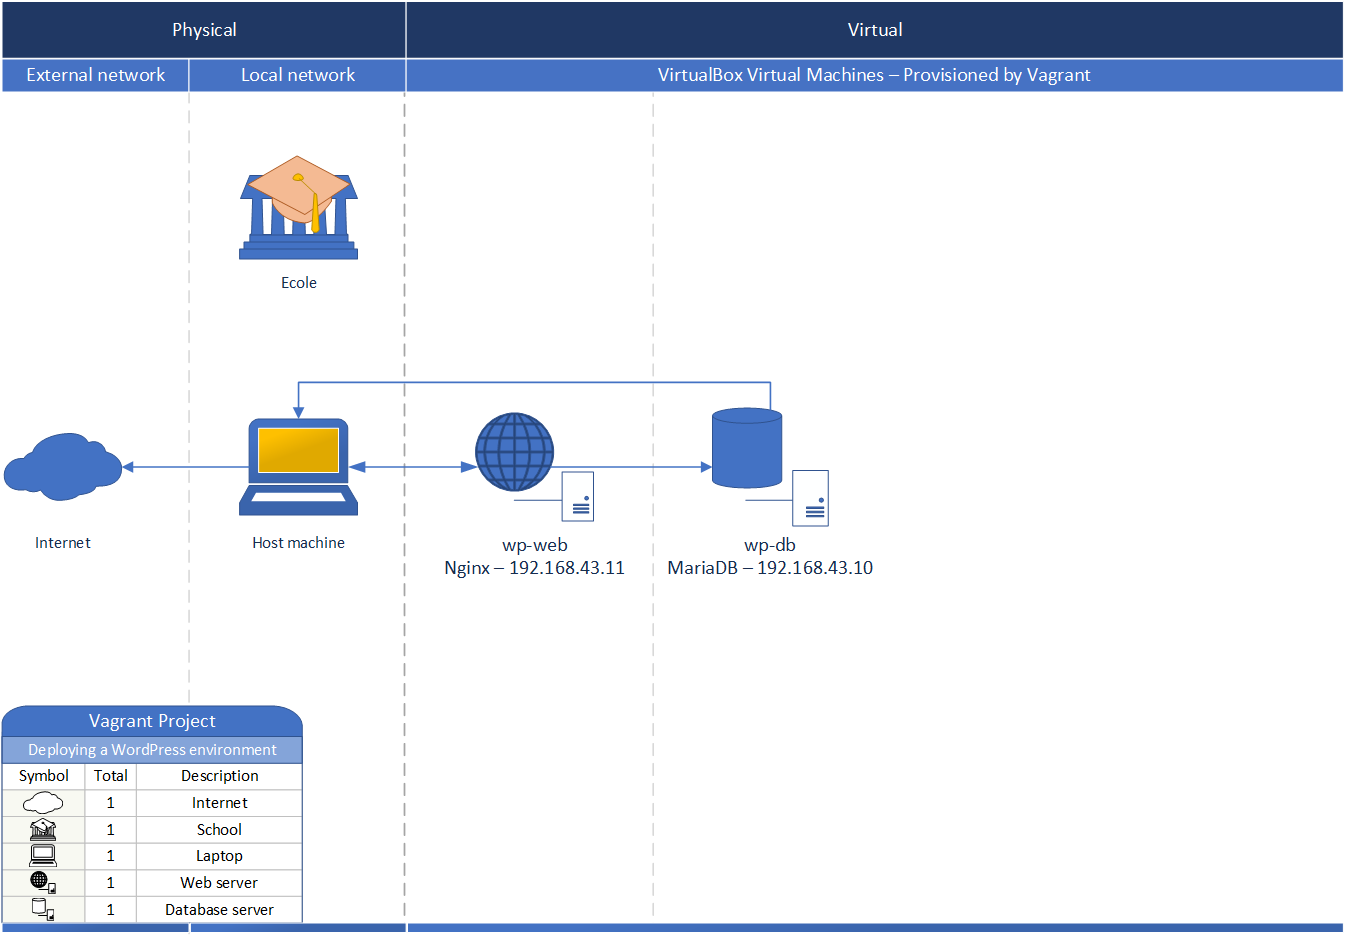
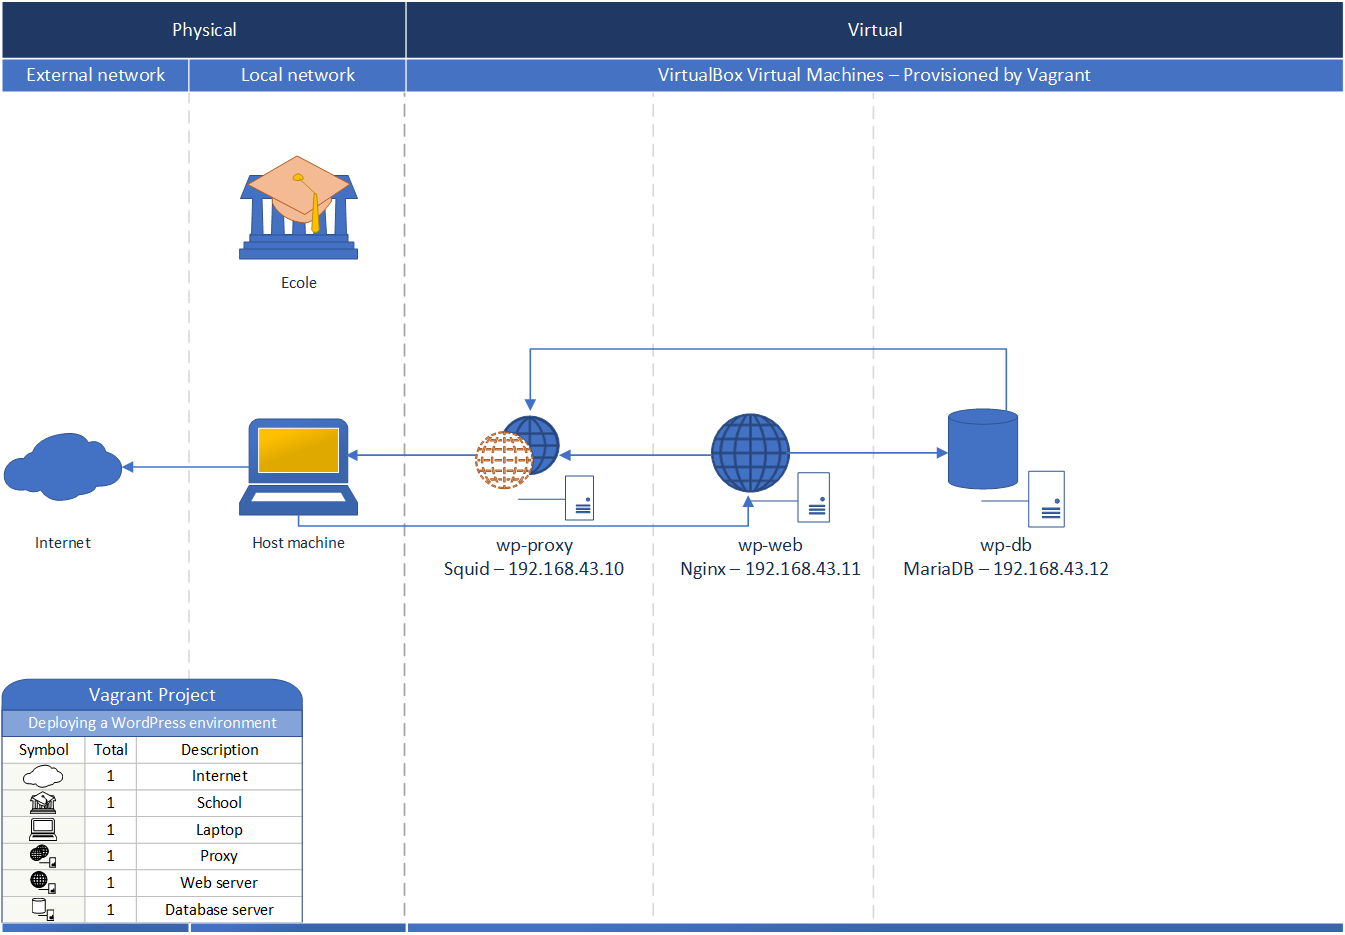
Initial commit exo 2

diff --git a/README.md b/README.md
@@ -6,8 +6,9 @@ This project can be used to deploy a complete Wordpress install in less than hal
 
 |  Qty  | Scalable |           Type            | Package | Hostname |      IP       |  CPU  |  RAM  |
 | :---: | :------: | :-----------------------: | :-----: | :------: | :-----------: | :---: | :---: |
-|   1   |    ❌     | Database (WordPress data) | mariadb |  wp-db   | 192.168.43.12 |   2   |  2GB  |
-|   1   |    ❌     |     Nginx web servers     |  nginx  |  wp-web  | 192.168.43.11 |   2   |  2GB  |
+|   1   |    ❌     |           Proxy           |  squid  | wp-proxy | 192.168.43.10 |   2   |  2GB  |
+|   1   |    ❌     | Database (WordPress data) | mariadb |  wp-db   | 192.168.43.12 |   1   | 1.5GB |
+|   1   |    ✔     |     Nginx web servers     |  nginx  |  wp-web  | 192.168.43.11 |   1   | 1.5GB |
 
 > - All the machines access have been secured with iptables and iptables-persistent to make rules permanent even after rebooting the machine.
 
@@ -15,7 +16,7 @@ This project can be used to deploy a complete Wordpress install in less than hal
 
 > [VirtualBox](https://www.virtualbox.org/wiki/Downloads) is required to deploy this installation, as well as [Vagrant](https://www.vagrantup.com/downloads.html). The `vagrant-dotenv` plugin is used to load the passwords without displaying them in the `Vagrantfile` or in the git repo. The plugin [vagrant-env](https://github.com/gosuri/vagrant-env) is installed with `vagrant plugin install vagrant-env` or automatically during the first deployment.
 
-Before executing any command, a `.env` file must be placed along with the `Vagrantfile` and filled with the three passwords used in the project in the following way :
+Before executing any command, a `.env` file must be placed along with the `Vagrantfile` and filled with the four passwords used in the project in the following way :
 
 ```bash
 # A template for this .env file is placed at the root of this project. You can copy it under the .env name and modify it to your needs.
@@ -26,19 +27,19 @@ WP_ADMIN_PASSWORD="Wordpress admin user password"
 
 Once the environment variables are ready, the project can be deployed easily with one command : `vagrant up` from the project folder.
 
-However, with the default values, some configurations of machines may fail due to network changes or computer resources. With my cellular network share, the network `192.168.43.0/24` is used and I took the 10 to 11 IP range. All of these settings are customizable, as described in the following section
+However, with the default values, some configurations of machines may fail due to network changes or computer resources. With my cellular network share, the network `192.168.43.0/24` is used and I took the 10 to 12 IP range. Moreover, deploying these 3 machines can only run in a computer with at least 16 GB of RAM. An i5 CPU is also recommended. All of these settings are customizable, as described in the following section
 
 ## Common parameters and configuration
 
 Some scripts in this projects are applied to all the machines, configuring some basics things in each system. Most of these scripts use an hash of variables declared in the beginning of the **`Vagrantfile`**. This hash, named `vm_params`, contains all the informations of the project environment. It allows to :
 
-- Define each hostname and IP address of the machines with *`xxxx_hostname`* and *`xxxx_ip`*. The IP address corresponds to the bridged interface and must be unique.
+- Define each hostname and IP address of the machines with *`xxxx_hostname`* and *`xxxx_ip`*. The IP address corresponds to the bridged interface and is unique for the proxy, database, and web server.
 - Define the `netmask` for all machines and defaulting to `255.255.255.0` which is high enough for this project.
 - Define which interface is bridged with `bridgedif`. This is the name of the interface as displayed as in the result of the `VBoxManage list bridgedifs` command, chosing the right interface with Internet access.
 - Define the name of the guest bridged interface with `bridgeif_guest_name`. In all the guests, the bridged interface is the second NIC and is named `eth1` by default.
 - Define the `domain_name` which is given to the vhost configuration and also should match the certificate name to prevent warnings in the browser when visiting the website.
 - Define the root of the certificates files. By default, the certificate files are placed in a `cert` directory right next to the `Vagrantfile` and the `cert_root` variable points towards them. Note that for simplicity, they are kept on a shared folder between the guests and the host machine. They are not pushed to any folder in the virtual machines.
-- Define the `web_root` to where the website files are stored. It is the root folder for all the vhosts (in web servers), defaulting to `/var/www/html`. ⚠ Contents of the folder will be removed during deployment. Be cautious not to place the folder anywhere critical for the system.
+- Define the `web_root` to store the website files. It is the root folder for the vhost (in web server), defaulting to `/var/www/html`. ⚠ Contents of the folder will be removed during deployment. Be cautious not to place the folder anywhere critical for the system.
 - Define the different database or WordPress variables. Go to the Database and WordPress sections to see more details on that part.
 
 All those variables are transmitted as environment variables to the provisioning scripts when necessary (a warning header is included in each script where they are used). This allow to modify in one place all the parameters without having to replace each occurence in the files of the project.
@@ -52,20 +53,22 @@ All these parameters are found at the begining of the `Vagrantfile` or in the `.
 |        netmask         | String  |          255.255.255.0           |    Netmask used for all machines     |                    /24 or less network required                    |
 |        bridgeif        | String  | Intel(R) Wireless-AC 9560 160MHz |      Name of the host interface      |                  see `VBoxManage list bridgedifs`                  |
 |  bridgeif_guest_name   | String  |               eth1               |     Name of the guest interface      |                           See `ip -c a`                            |
+|     squid_hostname     | String  |             wp-proxy             |          Hostname of proxy           |                               Unique                               |
+|        squid_ip        | String  |          192.168.43.10           |             IP of proxy              |                               Unique                               |
 |    mariadb_hostname    | String  |              wp-db               |       Hostname of the database       |                               Unique                               |
-|       mariadb_ip       | String  |          192.168.43.10           |          IP of the database          |                               Unique                               |
+|       mariadb_ip       | String  |          192.168.43.12           |          IP of the database          |                               Unique                               |
 |     database_name      | String  |            wordpress             |         Name of the database         |           Unique, not equal to mysql, information_schema           |
 |   database_username    | String  |          wordpressuser           |    Username of the WordPress user    |                   Unique, no special characters                    |
 | database_root_password | String  |                                  | Password for the root database user  |                       Defined in `.env` file                       |
 | database_user_password | String  |                                  |   Password for the wordpress user    |                       Defined in `.env` file                       |
-|     nginx_hostname     | String  |              wp-web              |      Hostname for Nginx servers      |            Unique, last digits of each IP are appended             |
+|     nginx_hostname     | String  |              wp-web              |      Hostname for Nginx server       |                               Unique                               |
 |        nginx_ip        | Number  |          192.168.43.11           |          IP of Nginx server          |                               Unique                               |
 |     https_enabled      | Boolean |               true               |       Defines if HTTPS is used       |              If true, a valid certificate is required              |
 |      domain_name       | String  |    opensource.axelfloquet.fr     |             Domain name              |       Valid and resolved (in hosts or DNS) domain name or IP       |
 |       cert_root        | String  |          /vagrant/cert           |        Certificate files root        | Valid certificate for the above domain (Let's Encrypt for example) |
 |        web_root        | String  |          /var/www/html           |          Website files root          |           Valid existing path - Emptied on provisioning            |
 |     website_prefix     | String  |               os1_               |        Prefix for table names        |                  Short and no special characters                   |
-|      website_name      | String  |        Open Source Exo 1         |         Title of the website         |      Can be omitted for GUI install - No special constraints       |
+|      website_name      | String  |           Open Source            |         Title of the website         |      Can be omitted for GUI install - No special constraints       |
 |    website_username    | String  |              admin               | Username of the admin WordPress user |      Can be omitted for GUI install - No special constraints       |
 |    website_password    | String  |                                  |     Password of this admin user      |  Can be omitted for GUI install - Strong passwords only in `.env`  |
 |     website_email      | String  |      contact@opensource.fr       |     Email for this admin account     |        Can be omitted for GUI install - valid mail address         |
@@ -85,8 +88,9 @@ This project does not include a DNS server. So, in order to be able to use hostn
 ::1     localhost ip6-localhost ip6-loopback
 ff02::1 ip6-allnodes
 ff02::2 ip6-allrouters
-192.168.43.10   wp-db
+192.168.43.10   wp-proxy
 192.168.43.11   wp-web
+192.168.43.12   wp-db
 ```
 
 ### APT
@@ -111,6 +115,16 @@ All servers have iptables configured to allow only the necessary services. Some 
 
 This file includes protection against ICMP bursts, several port scans, and defines the default policies for input, forward and output (but it can be overriden on each host). SSH, DNS and NTP are also added to be accepted. As it is a common script, no specific rule is found here but each machine have an `iptables.sh` script for custom rules in the corresponding folder. Some of these scripts may require an argument, you can open them and see each header with a usage instruction to know.
 
+## Proxy server
+
+The proxy server, Squid, is necessary for all the machines to be able to reach Internet. It is not scalable and is automatically configured on all hosts of this project via the `common/setproxy.sh` script used this way :
+
+```bash
+./common/setproxy.sh wp-proxy
+```
+
+Access to the Internet without proxy is prevented by the firewall.
+
 ## Database
 
 MariaDB has been used for the database on one host only. It is not replicated and not in high availability in this project. Only one database for the WordPress website is configured with all privileges users for each web server. Iptables is also configured to let access to the database only to the web servers. A few variables are available to configure the database :
@@ -128,7 +142,7 @@ One vhost is configured to give HTTPS access by default to the wordpress install
 
 The latest version of WordPress is automatically downloaded and installed after the creation of the worpdress GlusterFS volume. It is also configured automatically to use the previously created database, generating the well known `wp-config.php` in the process. If the website itself is defined in the variables, it is also configured ans saved to the database. In case of anything going wrong, nothing is done and the normal graphical installation can be accessed upon first connection. Here are the variables that can be set to install the website :
 
-- `website_name` : sets the title of the WordPress install. Defaults to `Open Source Exo 1`.
+- `website_name` : sets the title of the WordPress install. Defaults to `Open Source Exo 2`.
 - `website_username` : sets the username of the administrative user. Defaults to `admin`.
 - `website_password` : sets the password of the administrative user.
 - `website_email` : sets the email associated to the administrative user. Defaults to `contact@opensource.fr`
